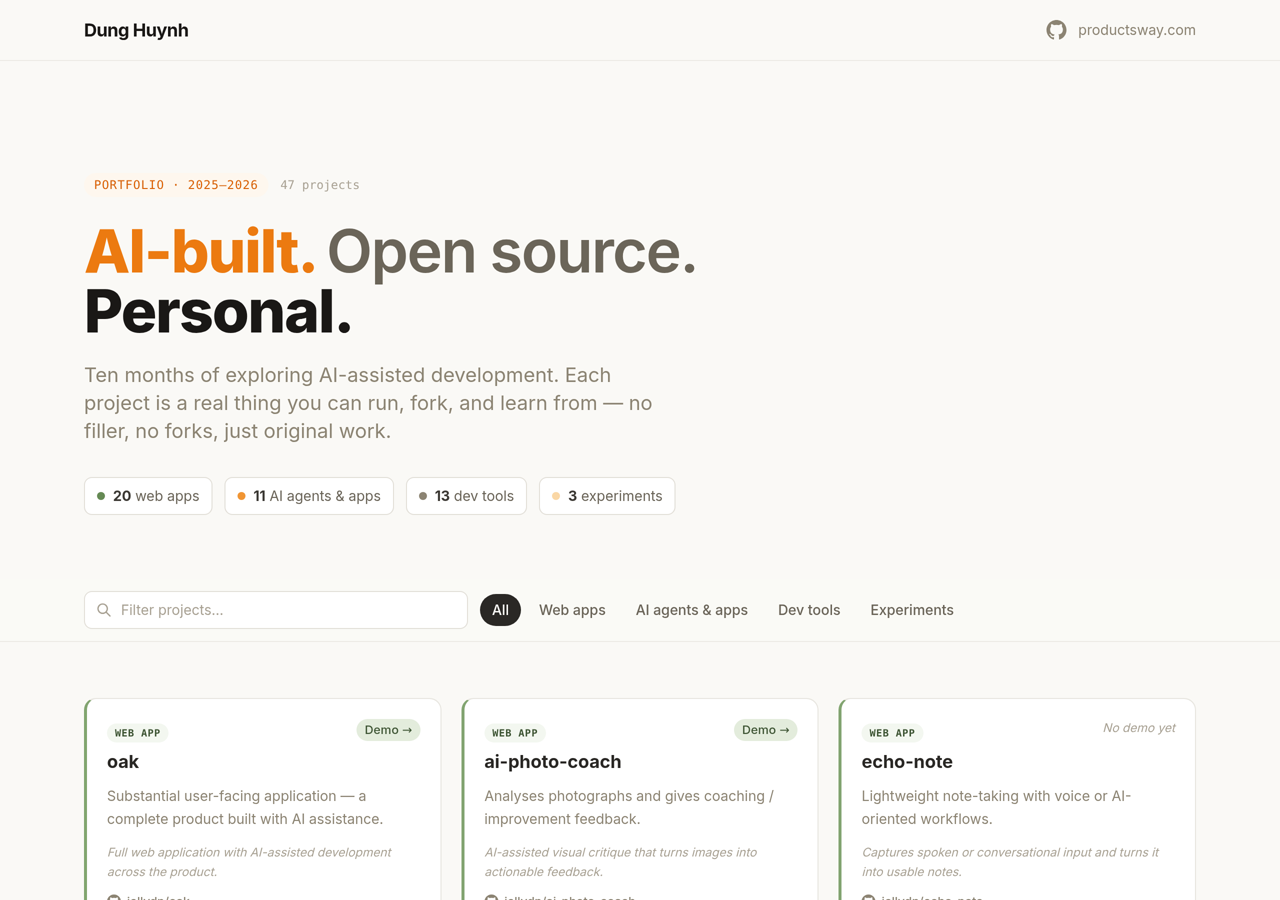
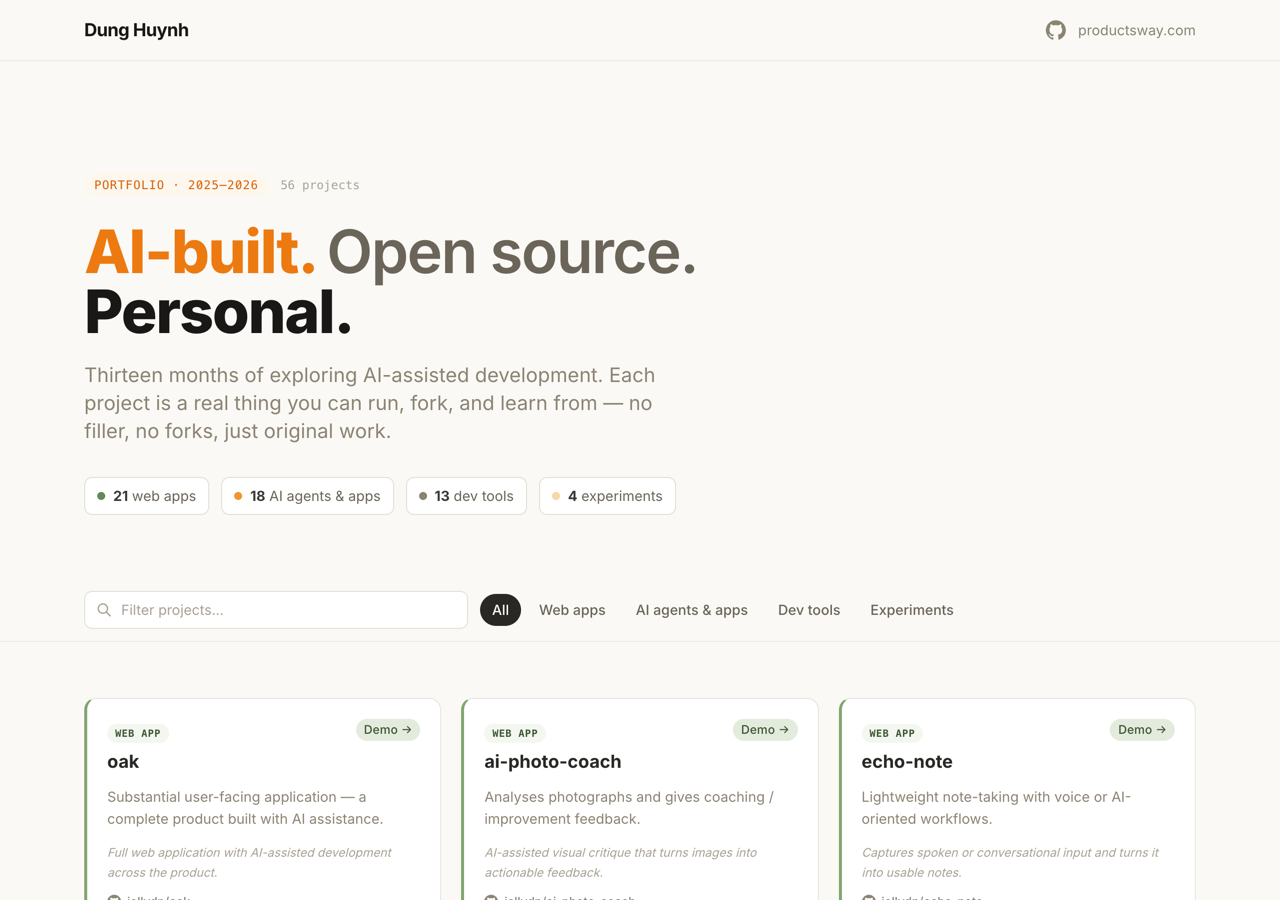
fix(showcase): recapture stale screenshots and sync live-demo counts (#22)
Amp-Thread-ID: https://ampcode.com/threads/T-01a20d4a-d158-755e-977e-c6c375d9e5d3

diff --git a/showcase/features.html b/showcase/features.html
@@ -15,14 +15,14 @@
 <meta property="og:type" content="website">
 <meta property="og:url" content="https://jellydn.github.io/personal-ai/showcase/features.html">
 <meta property="og:title" content="Features — Search, Filters & 56 Real Projects | personal-ai">
-<meta property="og:description" content="Live search, one-click category filters, and 28 working demo links across 56 AI-built projects.">
+<meta property="og:description" content="Live search, one-click category filters, and 32 working demo links across 56 AI-built projects.">
 <meta property="og:image" content="https://jellydn.github.io/personal-ai/showcase/screenshots/og-card.png">
 
 <!-- Twitter -->
 <meta name="twitter:card" content="summary_large_image">
 <meta name="twitter:url" content="https://jellydn.github.io/personal-ai/showcase/features.html">
 <meta name="twitter:title" content="Features — Search, Filters & 56 Real Projects | personal-ai">
-<meta name="twitter:description" content="Live search, one-click category filters, and 28 working demo links across 56 AI-built projects.">
+<meta name="twitter:description" content="Live search, one-click category filters, and 32 working demo links across 56 AI-built projects.">
 <meta name="twitter:image" content="https://jellydn.github.io/personal-ai/showcase/screenshots/og-card.png">
 
 <!-- Favicons -->
@@ -38,7 +38,7 @@
   "@id": "https://jellydn.github.io/personal-ai/showcase/features.html#page",
   "url": "https://jellydn.github.io/personal-ai/showcase/features.html",
   "name": "Features — Search, Filters & 56 Real Projects | personal-ai",
-  "description": "Live search, one-click category filters, and 28 working demo links across 56 AI-built projects.",
+  "description": "Live search, one-click category filters, and 32 working demo links across 56 AI-built projects.",
   "isPartOf": { "@id": "https://jellydn.github.io/personal-ai/showcase/#website" }
 }
 </script>
@@ -158,7 +158,7 @@
         <p class="lead">28 projects ship with a live demo — click "Demo" to try the app right now. Every single card links to its repository.</p>
         <p>From the <strong>tiny-pomodoro</strong> PWA, to the <strong>docklight</strong> Docker UI, to <strong>prompt-bench</strong> — the demo badge means it's not just a screenshot, it's something you can open in a tab.</p>
         <ul class="tick-list">
-          <li><svg fill="none" stroke="currentColor" stroke-width="2.5" viewBox="0 0 24 24"><path stroke-linecap="round" stroke-linejoin="round" d="M5 13l4 4L19 7"/></svg>28 live demos across the collection</li>
+          <li><svg fill="none" stroke="currentColor" stroke-width="2.5" viewBox="0 0 24 24"><path stroke-linecap="round" stroke-linejoin="round" d="M5 13l4 4L19 7"/></svg>32 live demos across the collection</li>
           <li><svg fill="none" stroke="currentColor" stroke-width="2.5" viewBox="0 0 24 24"><path stroke-linecap="round" stroke-linejoin="round" d="M5 13l4 4L19 7"/></svg>Every card links to its public repo</li>
           <li><svg fill="none" stroke="currentColor" stroke-width="2.5" viewBox="0 0 24 24"><path stroke-linecap="round" stroke-linejoin="round" d="M5 13l4 4L19 7"/></svg>New projects land here as exploration continues</li>
         </ul>

diff --git a/showcase/index.html b/showcase/index.html
@@ -130,7 +130,7 @@
     <div class="stats-grid">
       <div class="stat"><div class="stat-value"><em>56</em></div><div class="stat-label">Public projects</div></div>
       <div class="stat"><div class="stat-value"><em>13</em></div><div class="stat-label">Months of exploration</div></div>
-      <div class="stat"><div class="stat-value"><em>28</em></div><div class="stat-label">Live demos to try</div></div>
+      <div class="stat"><div class="stat-value"><em>32</em></div><div class="stat-label">Live demos to try</div></div>
       <div class="stat"><div class="stat-value"><em>4</em></div><div class="stat-label">Categories</div></div>
     </div>
   </div>
@@ -214,7 +214,7 @@
             <span class="browser-frame-dot"></span><span class="browser-frame-dot"></span><span class="browser-frame-dot"></span>
             <span class="browser-frame-url">github.com/jellydn/personal-ai</span>
           </div>
-          <img src="screenshots/demo/portfolio.png" alt="The personal-ai portfolio homepage showing a grid of 56 AI-built project cards" loading="lazy" width="1280" height="4934">
+          <img src="screenshots/demo/portfolio.png" alt="The personal-ai portfolio homepage showing a grid of 56 AI-built project cards" loading="lazy" width="1280" height="5814">
         </div>
         <figcaption class="gallery-caption">The tracker — 56 projects, one searchable grid</figcaption>
       </figure>

diff --git a/showcase/changelog.html b/showcase/changelog.html
@@ -122,7 +122,7 @@
           <li>The tracker is now 56 projects (21 web apps · 18 AI agents &amp; apps · 13 dev tools · 4 experiments). The window runs through 23 November 2026.</li>
           <li>Left out of this pass: <strong>awesome-coding-fonts</strong> (fonts, not AI) and non-AI keyboard, handheld-game and firmware utilities created in the same window.</li>
           <li>Updated existing projects also checked: <strong>tiny-local-ai</strong> (VitePress site), <strong>my-ai-tools</strong> (guard hardening), and <strong>pi-clinepass-provider</strong> (v1.7.0).</li>
-          <li>Showcase screenshots and the rendered OG card still show the earlier grid. Recapture them before this leaves draft.</li>
+          <li>Recaptured the stale showcase screenshots (hero, AI-filter, portfolio) and regenerated the OG card from <code>docs/og-card.html</code> with the 56/32/21/4 counts. The other screenshots (web/dev/experiment filters, search shots, walkthrough pages) still show the earlier grid.</li>
         </ul>
       </article>
 

diff --git a/docs/og-card.html b/docs/og-card.html
@@ -126,7 +126,7 @@
     <p class="sub">Thirteen months of exploration, catalogued honestly — searchable, every project public and forkable.</p>
     <div class="stats">
       <div class="stat"><em>56</em><span>Projects</span></div>
-      <div class="stat"><em>28</em><span>Live demos</span></div>
+      <div class="stat"><em>32</em><span>Live demos</span></div>
       <div class="stat"><em>21</em><span>Web apps</span></div>
       <div class="stat"><em>4</em><span>Experiments</span></div>
     </div>
